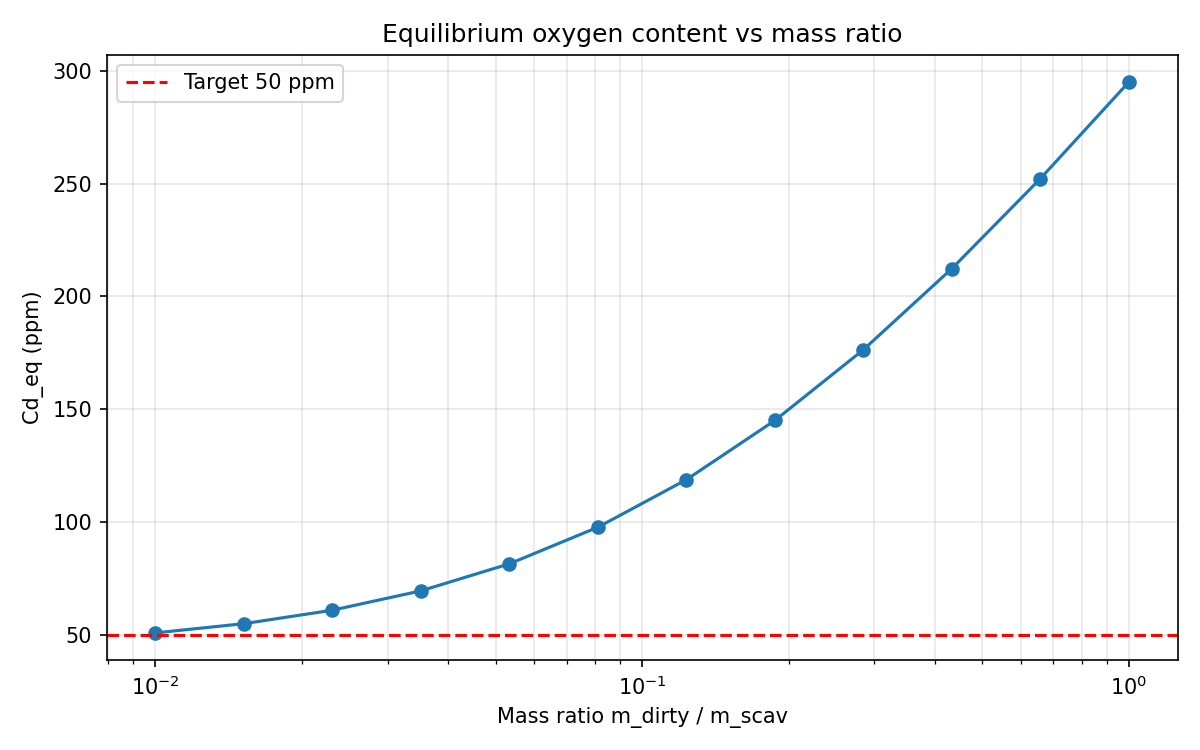
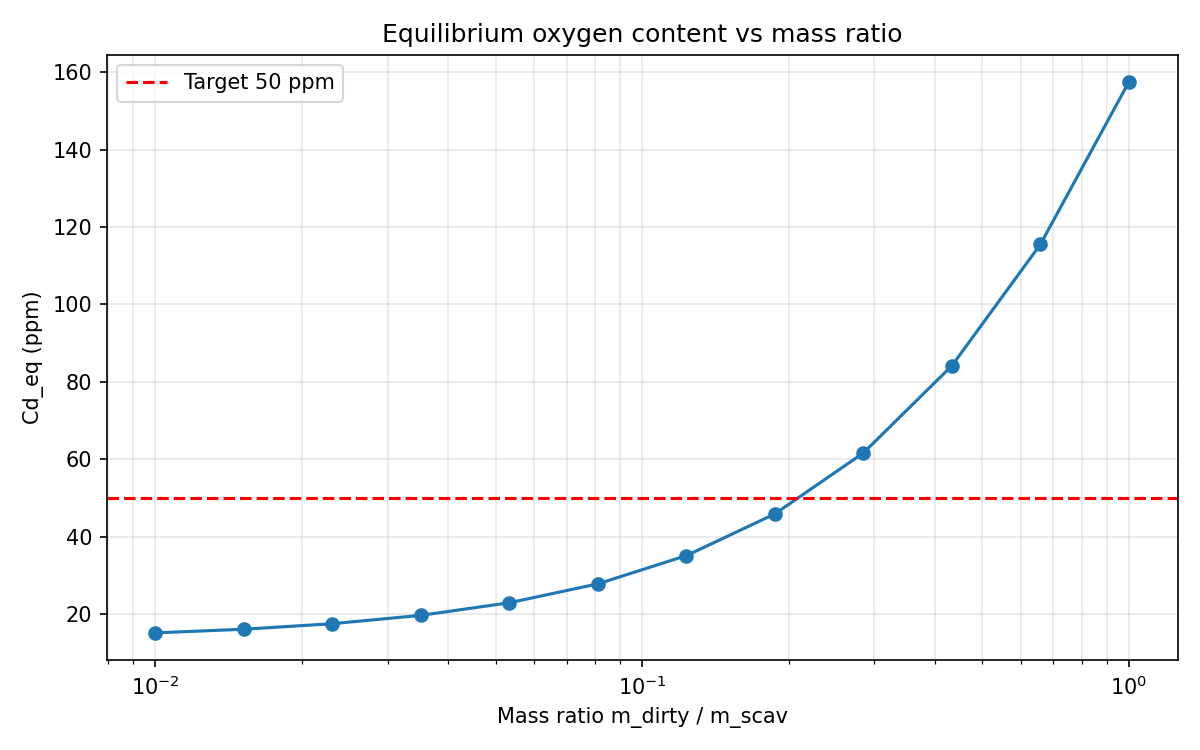
Update max time to 1e8 for convergence testing

diff --git a/optimizer.py b/optimizer.py
@@ -16,7 +16,7 @@ T = 1400 + 273.15  # K
 Cd0 = 700.0
 Cs0 = 50.0
 mass_dirty = 1.0
-Rd = 50e-6
+Rd = 50e-6 #radius of dirty powder particle (m)
 Rs = 500e-6
 
 Csat_scav = tantalum_solubility(T)
